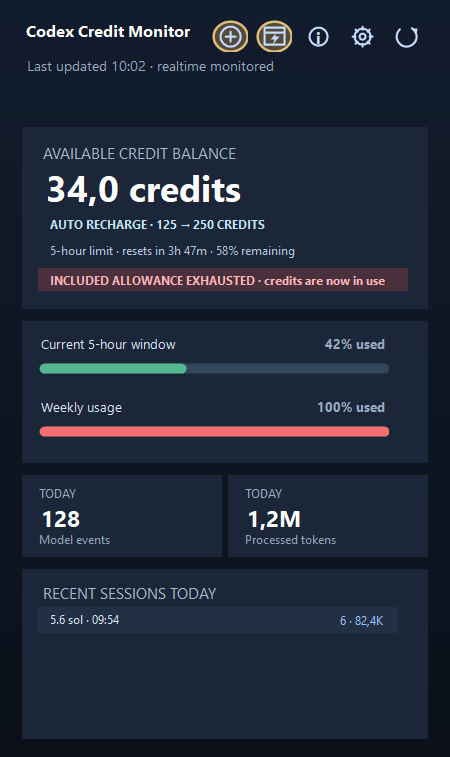
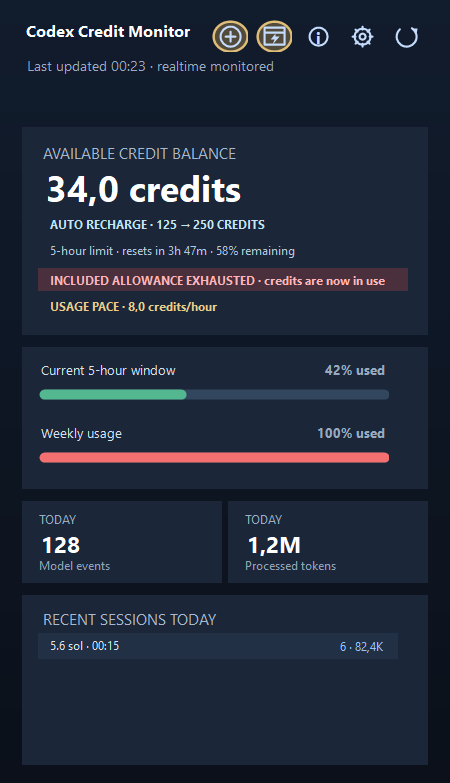
Refresh v2.2 dashboard and delivery details

diff --git a/README.md b/README.md
@@ -15,6 +15,7 @@ At a glance, you can see:
 - The live 5-hour reset countdown and remaining allowance inside the credit card.
 - Today's model activity, processed tokens, and recent sessions.
 - Locally observed credit-use pace and optional alerts, with the last reliable pace retained during quiet periods and after restarts.
+- The exhausted-allowance status and the credit-use pace remain visible together when credits are in use.
 
 ## How it works
 
@@ -72,14 +73,15 @@ The Info window dynamically reads the bundled Dutch and English product descript
 [Download SHA256SUMS.txt](https://github.com/sibosays/CodexCreditMonitor/releases/latest/download/SHA256SUMS.txt) and compare the SHA-256 value of your chosen package:
 
 ```text
-96C8F6B57E9ACF331F4CBA8F62C4827DD668AFF838AC742A92C69AE02C7224A5  CodexCreditMonitorSetup_2.2_x64.msi
-04FE3ED45DE377C21BC24644A3FEF50C903E664828A0D5918909F022F8B4277B  CodexCreditMonitorPortable_2.2.zip
+9C19B3EACD2D858E7FB5C71E1C2E4BF5B358425FEC915BC7133F639FF7B71E5C  CodexCreditMonitorSetup_2.2_x64.msi
+A7B5018F26E24E3A783D98D26F3902C76CE2A7437354CD4B19EDD5DD40D3FE4B  CodexCreditMonitorPortable_2.2.zip
 ```
 
 ## What is new in v2.2?
 
 - Live 5-hour reset countdown and remaining allowance inside the credit card.
 - Reliable usage-pace persistence and recovery from recent local history.
+- Credit-use pace remains visible alongside the exhausted-allowance status.
 - Professional product-focused Info view instead of change history.
 - Gentle automatic Info scrolling with pause-on-hover behavior.
 - Self-contained MSI and PortableApps delivery without a separate .NET dependency.
